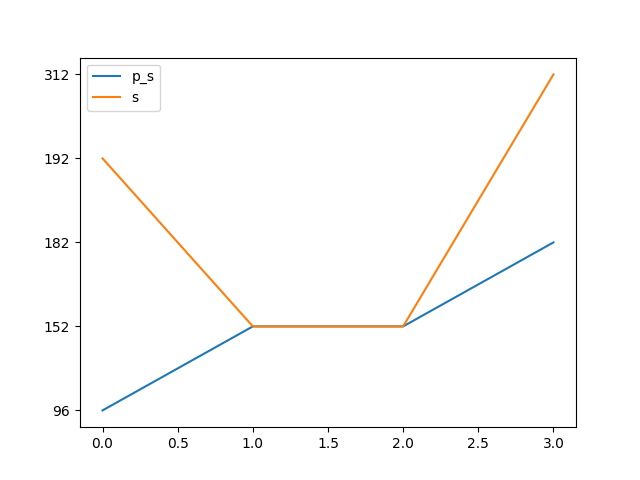
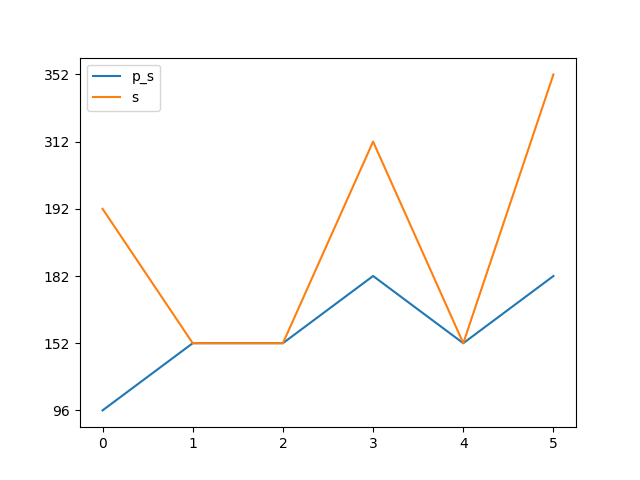
0x0005

diff --git a/benchmark.md b/benchmark.md
@@ -10,7 +10,9 @@ Synthesising 0x0003 pexact:182 r=4 exact:312 r=4
 
 Synthesising 0x0004 pexact:152 r=3 exact:152 r=3
 
-<img src=benchmark_r0.png width=400 heigth=400>
+Synthesising 0x0005 pexact:182 r=4 exact:352 r=4
 
-<img src=benchmark_s0.png width=400 heigth=400>
+<img src=benchmark_r1.png width=400 heigth=400>
+
+<img src=benchmark_s1.png width=400 heigth=400>
 
